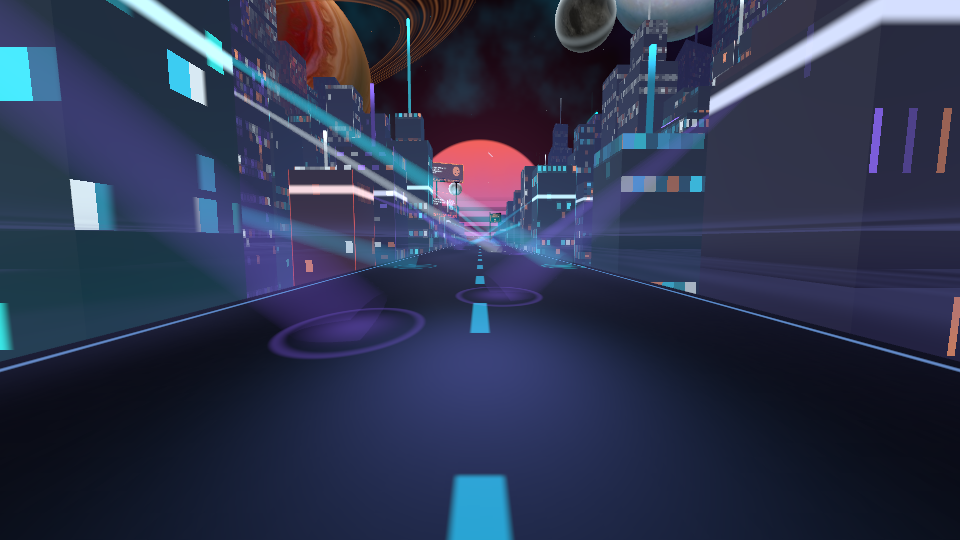
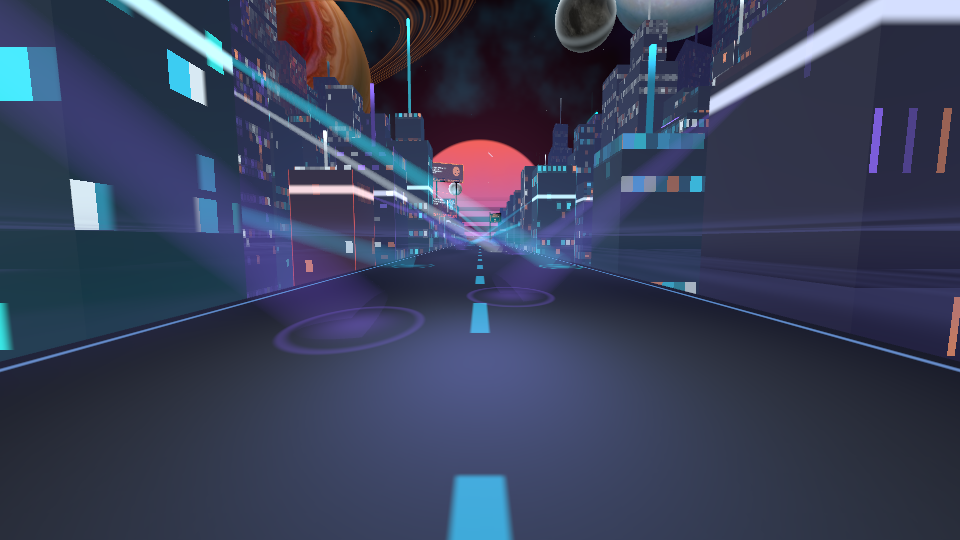
C4 : route (grain fondu au loin, flaque de lumière du sujet, ondes de kick sur l'eau), plafond étendu à la traîne, captures, journal 🟨
Claude-Session: https://claude.ai/code/session_018Ewppj4B38uuL8ceEto8xj

diff --git a/crates/cf-world-neon/examples/city_demo/check.rs b/crates/cf-world-neon/examples/city_demo/check.rs
@@ -62,7 +62,7 @@ const BASE: Scene = Scene {
     settle: SETTLE_FRAMES,
 };
 
-const SCENES: [Scene; 10] = [
+const SCENES: [Scene; 11] = [
     Scene {
         name: "1-depart",
         ..BASE
@@ -122,6 +122,15 @@ const SCENES: [Scene; 10] = [
     Scene {
         name: "10-atmo-coquille",
         kick_age: Some(0.45),
+        ..BASE
+    },
+    // Sol mouillé (C4) : flaques, reflets, et l'anneau d'un kick vieux de 0,35 s sur l'eau.
+    Scene {
+        name: "11-mouille-kick",
+        wet: 1.0,
+        rain: 0.2,
+        time_s: 12.0,
+        kick_age: Some(0.35),
         ..BASE
     },
 ];

diff --git a/crates/cf-world-neon/src/facade/windows.rs b/crates/cf-world-neon/src/facade/windows.rs
@@ -127,6 +127,6 @@ mod tests {
             );
         }
         // Le shader plafonne bien ce qu'il ajoute aux fenêtres.
-        assert!(FACADE_SOURCE.contains("window_cap(pane * window_gain(pane_n), scene.c_key.w)"));
+        assert!(FACADE_SOURCE.contains("window_cap(pane * window_gain(pane_n) + trail_pane, scene.c_key.w)"));
     }
 }

diff --git a/docs/worldbuilding/CHANTIERS.md b/docs/worldbuilding/CHANTIERS.md
@@ -173,7 +173,7 @@ visuelle `Δ`.
 - [ ] Critère de palette de DA §1.1 sur capture (70 % des émissifs dans la dominante ou l'accent, `ice` < 2 %).
 - [x] Une fenêtre ne dépasse jamais `0,9·θ_b` (test du shader ou de la fonction miroir en Rust).
 - [x] Toujours un seul lot de dessin pour les pavés de la ville. (aucun matériau ni maillage ajouté : un champ d'uniformes de plus)
-- [ ] Captures `docs/captures/C4/` : sec, mouillé, kick, calme contre sommet.
+- [x] Captures `docs/captures/C4/` : sec, mouillé, kick, calme contre sommet.
 
 ---
 
@@ -329,7 +329,7 @@ Statuts : ⬜ à faire · 🟨 en cours (le journal dit où reprendre) · ✅ te
 | C1 | Signaux et dramaturgie | ✅ | voir `git log` (dernier commit « C1 ») | Sur le matériel cible : seuils de `z` des transitoires et étalonnage `FFT_TO_RMS` sur une vraie entrée ligne/micro ; ressenti du creux d'avant-drop. Routage non encore lu par les shaders (C2 à C4). |
 | C2 | Image finale | ✅ | voir `git log` (« C2 ») | Critères `[~]` : Ȳ et bloom mesurés sur la démo, pas sur la ville (à refaire en C3/C4) ; référence de parité Sillage non régénérée (bun/Playwright absents) ; remise à zéro GPU de la persistance non testée ; rayons à valider à l'œil. Matériel cible : cadence, bloom fin, couleurs sur projecteur. |
 | C3 | Atmosphère et profondeur | ✅ | voir `git log` (« C3 ») | Critères `[~]` : séparation des plans à rejuger sur capture après C4 (corps de façade trop clairs aujourd'hui) ; coût GPU aux trois paliers non mesuré. Matériel cible : densité `σ_t·ρ` et luminance de la brume sur projecteur, lisibilité de la coquille de kick, taille des poussières. `FogReach` publié mais pas encore lu par le culling (C7) ; `AtmosphereLook::apnea` pas encore écrit (EV4, C7) ; `SceneLight` (principale, remplissage, contre-jour) publié mais l'ombrage des faces est pour C4. |
-| C4 | Sol, façades et matériaux | 🟨 | voir `git log` (« C4 ») | Fait : relief des façades et fenêtres hiérarchisées. Reste : route (flaques, rugosité, ondes, étirement des reflets, grain, flaque de lumière du sujet), micro-détail et halo des façades, vu-mètre, néons à cœur blanc, fenêtres habitées, critère de palette. Voir le journal. |
+| C4 | Sol, façades et matériaux | 🟨 | voir `git log` (« C4 ») | Fait : relief des façades, fenêtres hiérarchisées et plafonnées, grain, flaque de lumière et ondes de kick de la route. Reste : rugosité réactive, reflet des fenêtres aligné, micro-détail et halo des façades, vu-mètre, néons à cœur blanc, fenêtres habitées, critère de palette. Voir le journal (point de reprise numéroté). |
 | C5 | Ville : distribution et archétypes | ⬜ | — | — |
 | C6 | Ville : habillage | ⬜ | — | — |
 | C7 | Tunnel, événements, LOD et culling | ⬜ | — | — |
@@ -351,6 +351,12 @@ non tenus et pourquoi, point de reprise si le chantier reste 🟨.
   que fasse la musique. Miroir Rust `facade::windows` (constantes comparées au shader par un test).
 - `SceneLight` porte maintenant `Δ` (`c_fill.w`) et le plafond des fenêtres (`c_key.w`, lu de `BLOOM_THRESHOLD`).
 
+**Fait (route, `road.wesl`, même condition)**
+- Grain d'asphalte fondu dans sa moyenne dès qu'une cellule passe sous deux pixels (`fwidth`) : plus de scintillement au loin.
+- Flaque de lumière sous le sujet : `c_key·0,12·exp(−r²/σ²)`, σ = 6 m, centrée sur `scene.source`.
+- Ondes de kick sur l'eau : pente radiale ajoutée à la surface mouillée (14 m/s, 0,9 m, 0,7 s), à plat en respiration ou flashs
+  coupés (`scene.shell.w`). Flaques, rides de pluie, rugosité et étirement des reflets existaient déjà (portage de Sillage).
+
 **Mesures (city_demo, rendu logiciel, sans post-traitement, luminance linéaire) : avant C3 → C3 → C4**
 - Calme : Ȳ 0,073 → 0,075 → **0,061** (cible 0,06 de DA §3.1) ; pixels émissifs (`Y > 0,2`) 10,2 % → 6,8 %.
 - Sommet : Ȳ 0,097 → 0,100 → 0,089 ; l'écart sommet/calme passe de +33 % à +46 %.
@@ -363,16 +369,16 @@ non tenus et pourquoi, point de reprise si le chantier reste 🟨.
 - Albédo du béton 0,18 (milieu de la plage 0,12 à 0,25 de DA §2.2).
 
 **Reste à faire (point de reprise)**
-1. Route (`road.wesl`, `road/`) : flaques `m_p`, rugosité réactive (`Target::Puddles`), ondes de pluie et de kick (`scene.kick_age`
-   est déjà dans le bloc), étirement vertical et aberration de `lamp_reflection` / `facade_reflection`, grain d'asphalte, flaque
-   de lumière sous le sujet (`scene.source`).
+1. Route (`road.wesl`, `road/`) : rugosité réactive (`Target::Puddles`, pas encore dans le bloc), aberration des reflets
+   analytiques, et `facade_reflection` qui dessine encore une fenêtre sur deux (à aligner sur `window_share`, sinon le reflet
+   montre plus de fenêtres que la façade). Pas de miroir Rust ni de test pour `kick_ripples` et la flaque de lumière.
 2. Façades : micro-détail (coulures, joints, effacé par `fwidth`), halo des 4 sockets proches, vu-mètre sur
    `FilteredSignals::spectrum` (à ajouter au bloc ou à `FacadeParams`), chanfrein lumineux de toit sur 1 immeuble sur 3.
 3. Néons et enseignes (`sign.wesl`, arêtes de `facade.wesl`) : profil cœur blanc / halo saturé, paliers E1 à E4, saturation liée à `HM`.
 4. Fenêtres habitées (DA §5, idée 1) avec repli en aplat au loin.
 5. Critère de palette (70 % des émissifs dans la dominante ou l'accent) avec `cf_render::postfx::measure` sur les captures.
-6. Les autres ajouts à la fenêtre (traîne de la voiture, bande de caisse claire, charleston, pouls de la ville) ne passent pas
-   encore par `window_cap` : seul le terme principal est plafonné.
+6. Le plafond couvre la fenêtre et la traîne de la voiture (charleston et pouls de la ville passent par `lit`, donc dedans).
+   La bande de caisse claire et la ceinture lumineuse ne sont pas des fenêtres : à ranger dans les paliers E2 avec les néons (point 3).
 
 ### 2026-11-14 · C3 Atmosphère et profondeur · ✅
 
